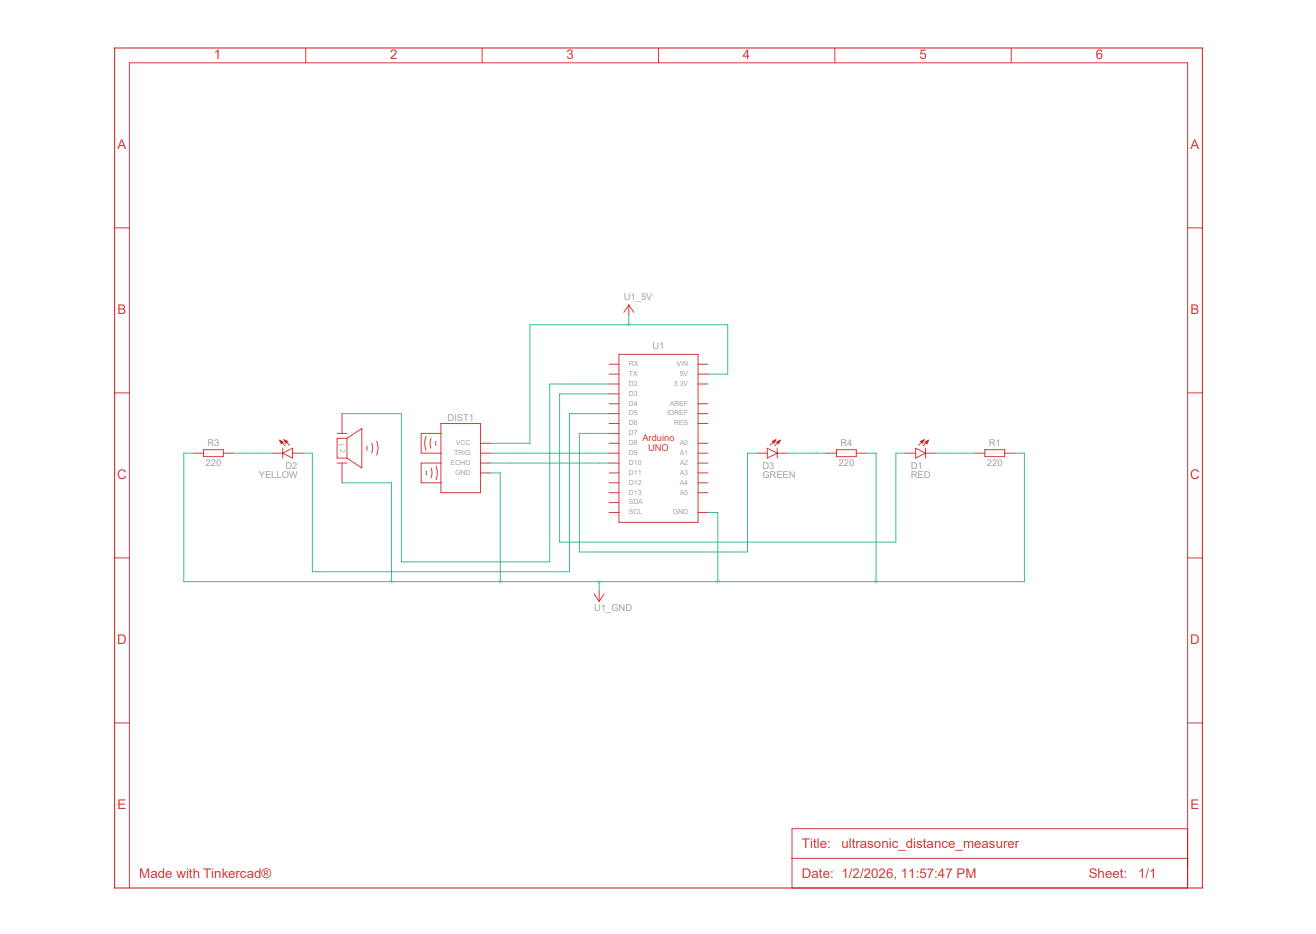
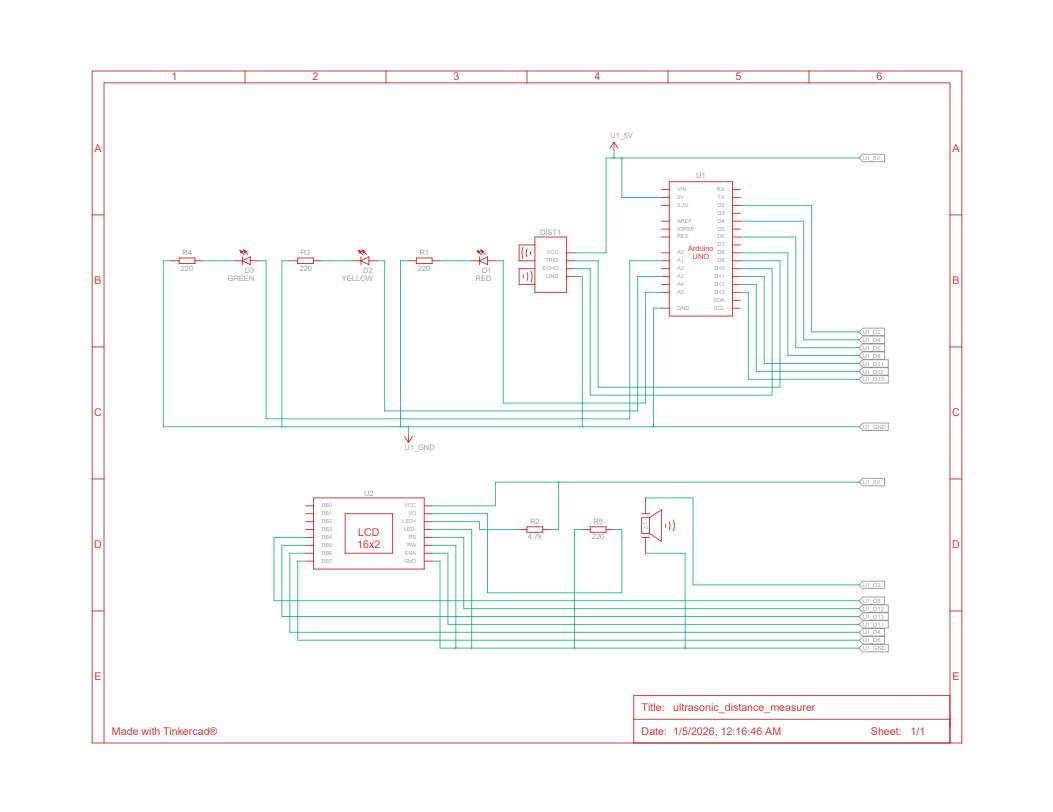
Added LCD support

diff --git a/arduino/ultrasonic_distance_measurer/src/main.cpp b/arduino/ultrasonic_distance_measurer/src/main.cpp
@@ -1,13 +1,16 @@
 #include <Arduino.h>
+#include <LiquidCrystal.h>
 
 const int trigPin = 9;
 const int echoPin = 10;
 
-const int redLED = 3;
-const int yellowLED = 5;
-const int greenLED = 7;
+const int redLED = A5;
+const int yellowLED = A3;
+const int greenLED = A1;
 
 const int buzzerPIN = 2;
+
+LiquidCrystal lcd(12, 11, 8, 13, 4, 6);
 
 void setup() {
   pinMode(trigPin, OUTPUT);
@@ -19,6 +22,9 @@ void setup() {
   pinMode(buzzerPIN, OUTPUT);
 
   Serial.begin(9600);
+
+  lcd.begin(16, 2);
+  lcd.clear();
 }
 
 void loop() {
@@ -34,12 +40,21 @@ void loop() {
 
   Serial.print("Distance: ");
   Serial.print(distance);
-  Serial.println(" cm");
+  Serial.println(" cm   ");
+
+  lcd.setCursor(0, 0);
+  lcd.print("Dist: ");
+  lcd.print(distance, 1);
+  lcd.print(" cm   ");
+
+  lcd.setCursor(0, 1);
 
   if (distance < 10 && distance > 0) {
     digitalWrite(redLED, HIGH);
     digitalWrite(yellowLED, LOW);
     digitalWrite(greenLED, LOW);
+
+    lcd.print("CLOSE ");
 
     digitalWrite(buzzerPIN, HIGH);
     delay(100);
@@ -52,6 +67,8 @@ void loop() {
     digitalWrite(yellowLED, HIGH);
     digitalWrite(greenLED, LOW);
 
+    lcd.print("MEDIUM");
+
     digitalWrite(buzzerPIN, HIGH);
     delay(300);
     digitalWrite(buzzerPIN, LOW);
@@ -62,6 +79,8 @@ void loop() {
     digitalWrite(redLED, LOW);
     digitalWrite(yellowLED, LOW);
     digitalWrite(greenLED, HIGH);
+
+    lcd.print("SAFE  ");
 
     digitalWrite(buzzerPIN, LOW);
   }

diff --git a/arduino/ultrasonic_distance_measurer/README.md b/arduino/ultrasonic_distance_measurer/README.md
@@ -2,7 +2,7 @@
 
 An Arduino-based embedded systems project that measures the distance to an
 object using an HC-SR04 ultrasonic sensor and provides real-time visual and audible
-feedback using LEDs and an active buzzer.
+feedback using LEDs, an active buzzer, and a 16x2 LCD.
 
 The project demonstrates basic sensor interfacing, timing-based distance
 calculation, and decision-making logic on a microcontroller.
@@ -18,6 +18,12 @@ three LEDs lights up to indicate proximity:
 - **Yellow** → Object is at a medium distance
 - **Red** → Object is very close
 
+The buzzer provides audible alerts with increasing frequency as the object
+moves closer to the sensor.
+
+The LCD displays the measured distance in centimeters on the first row and the
+corresponding proximity status (SAFE, MEDIUM, or CLOSE) on the second row.
+
 Such distance-measurement systems are commonly used in applications like
 parking sensors, obstacle detection, and simple robotics.
 
@@ -29,7 +35,7 @@ parking sensors, obstacle detection, and simple robotics.
 3. The wave reflects off an object and returns to the sensor.
 4. The **ECHO** pin remains HIGH for the duration of the round trip.
 5. The Arduino measures this time using `pulseIn()`.
-6. Distance is calculated using the speed of sound: ```distance (cm) = (duration × 0.034) / 2```
+6. Distance is calculated using the speed of sound: `distance (cm) = (duration × 0.034) / 2`
 7. The calculated distance is compared against predefined thresholds to determine which LED should be turned on.
 
 
@@ -53,8 +59,7 @@ The complete wiring for the project is shown below.
 
 ## Schematic Diagram
 
-The schematic below shows the logical electrical connections between the
-Arduino Uno, ultrasonic sensor, LEDs, and the active buzzer.
+The schematic below shows the logical electrical connections between all components.
 
 ![Schematic](schematic.png)
 
@@ -65,7 +70,7 @@ Arduino Uno, ultrasonic sensor, LEDs, and the active buzzer.
 - HC-SR04 Ultrasonic Sensor
 - Active Buzzer
 - Red, Yellow, and Green LEDs
-- Current-limiting resistors (220 Ω)
+- Resistors (220Ω x 4 and 4k7Ω x 1)
 - Breadboard
 - Jumper wires
 
@@ -79,13 +84,29 @@ Arduino Uno, ultrasonic sensor, LEDs, and the active buzzer.
 - **ECHO** → D10
 
 ### LEDs
-- **Red LED** → D3 (via resistor)
-- **Yellow LED** → D5 (via resistor)
-- **Green LED** → D7 (via resistor)
+- **Red LED** → A5 (via resistor)
+- **Yellow LED** → A3 (via resistor)
+- **Green LED** → A1 (via resistor)
 
 ### Buzzer
 - **Active Buzzer (+)** → D2
 - **Active Buzzer (–)** → GND
+
+### 16×2 LCD (HD44780, 4-bit mode)
+
+- **RS** → D12  
+- **E** → D11  
+- **D4** → D8  
+- **D5** → D13  
+- **D6** → D4  
+- **D7** → D6  
+- **VCC** → 5V  
+- **GND** → GND  
+- **RW** → GND  
+
+**Contrast (VO):**  
+A fixed **4.7 kΩ resistor to GND** is used to set LCD contrast due to the absence of a potentiometer.
+
 
 All cathodes are connected to ground.
 
@@ -96,6 +117,7 @@ All cathodes are connected to ground.
 - Framework: Arduino
 - Toolchain: PlatformIO
 - Editor: Visual Studio Code
+- Libraries: LiquidCrystal
 
 
 ## How to Run
